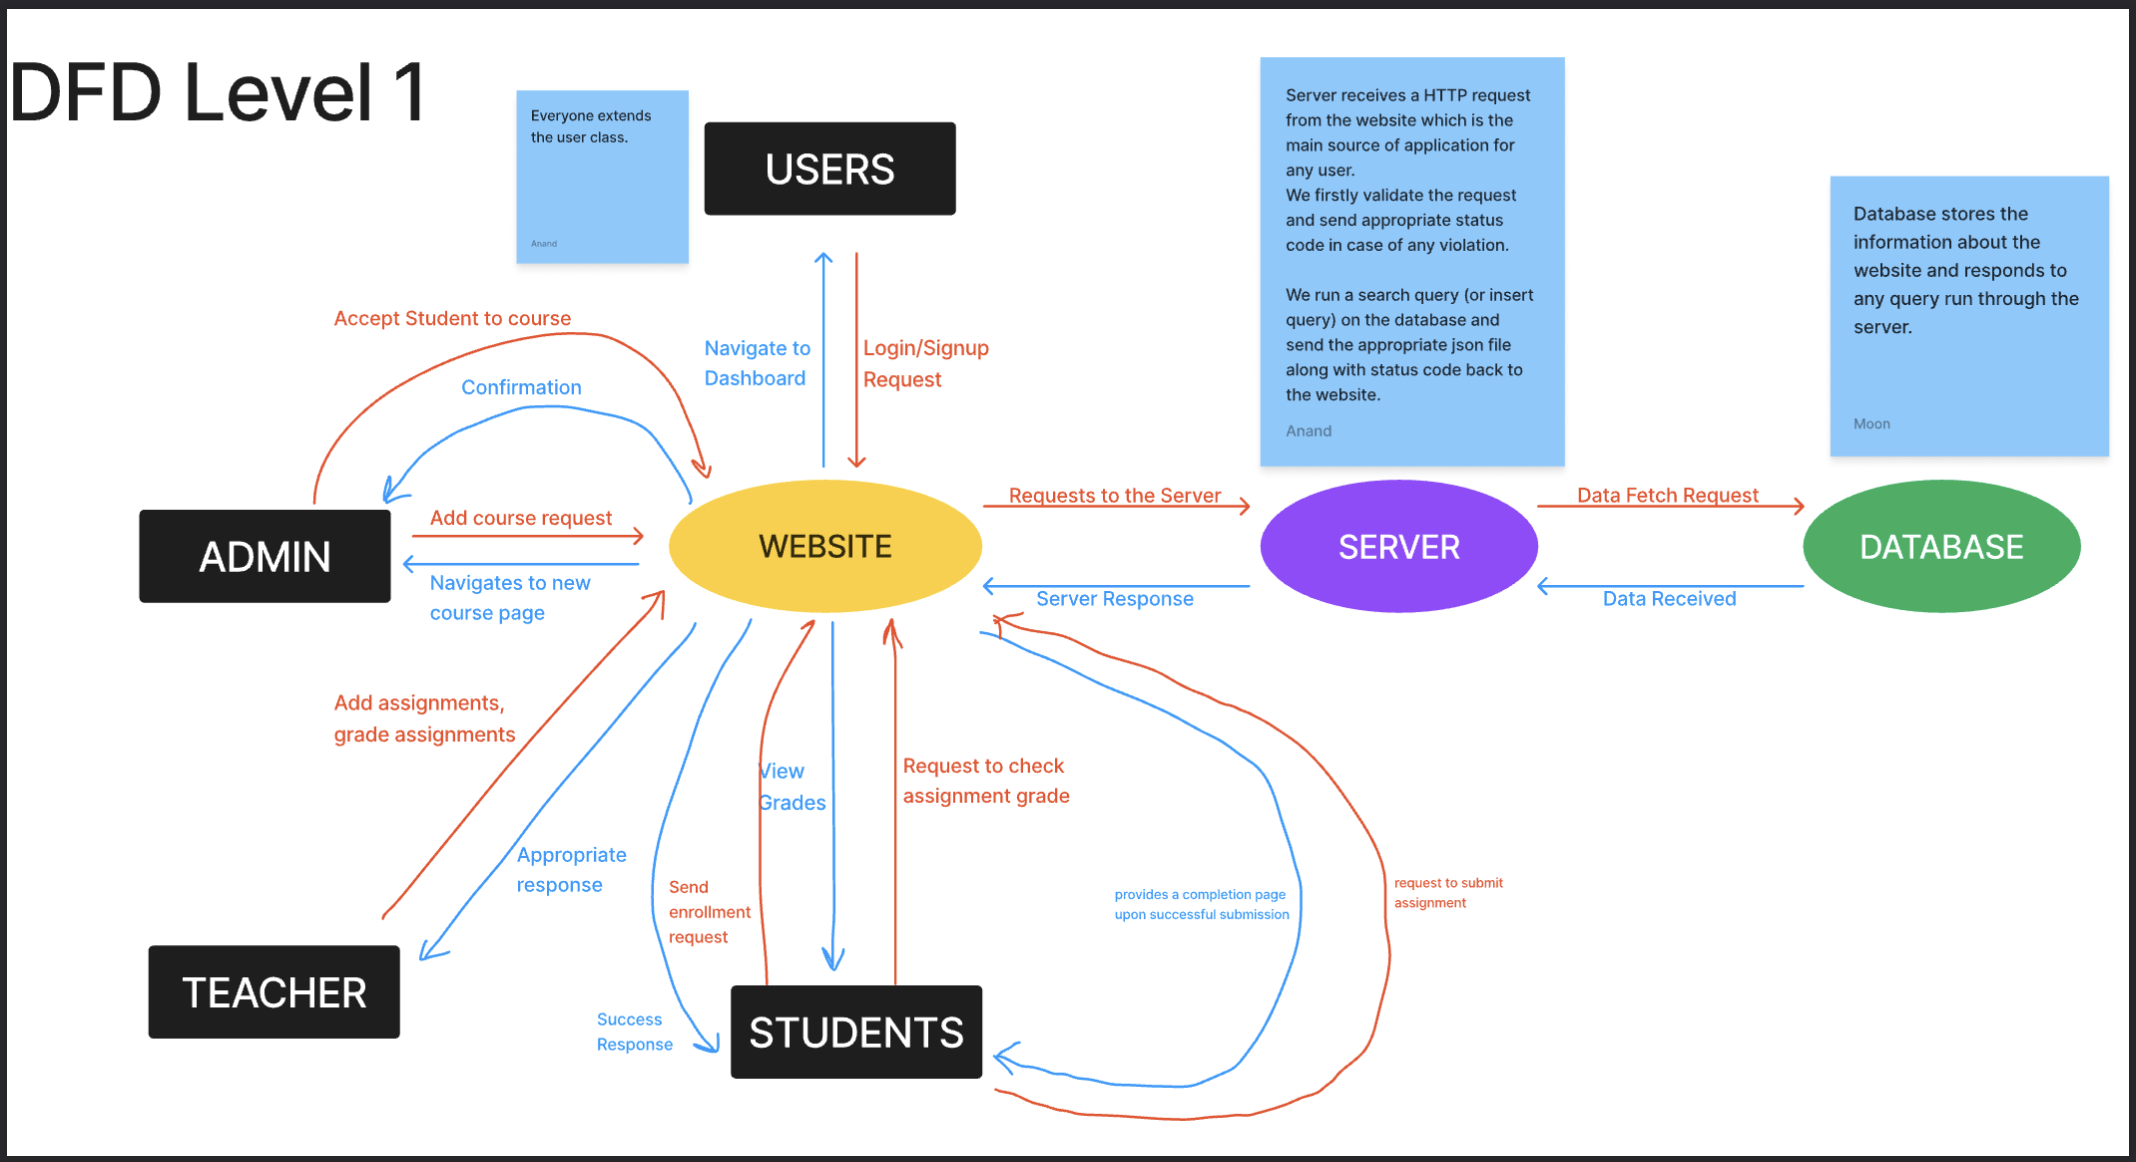
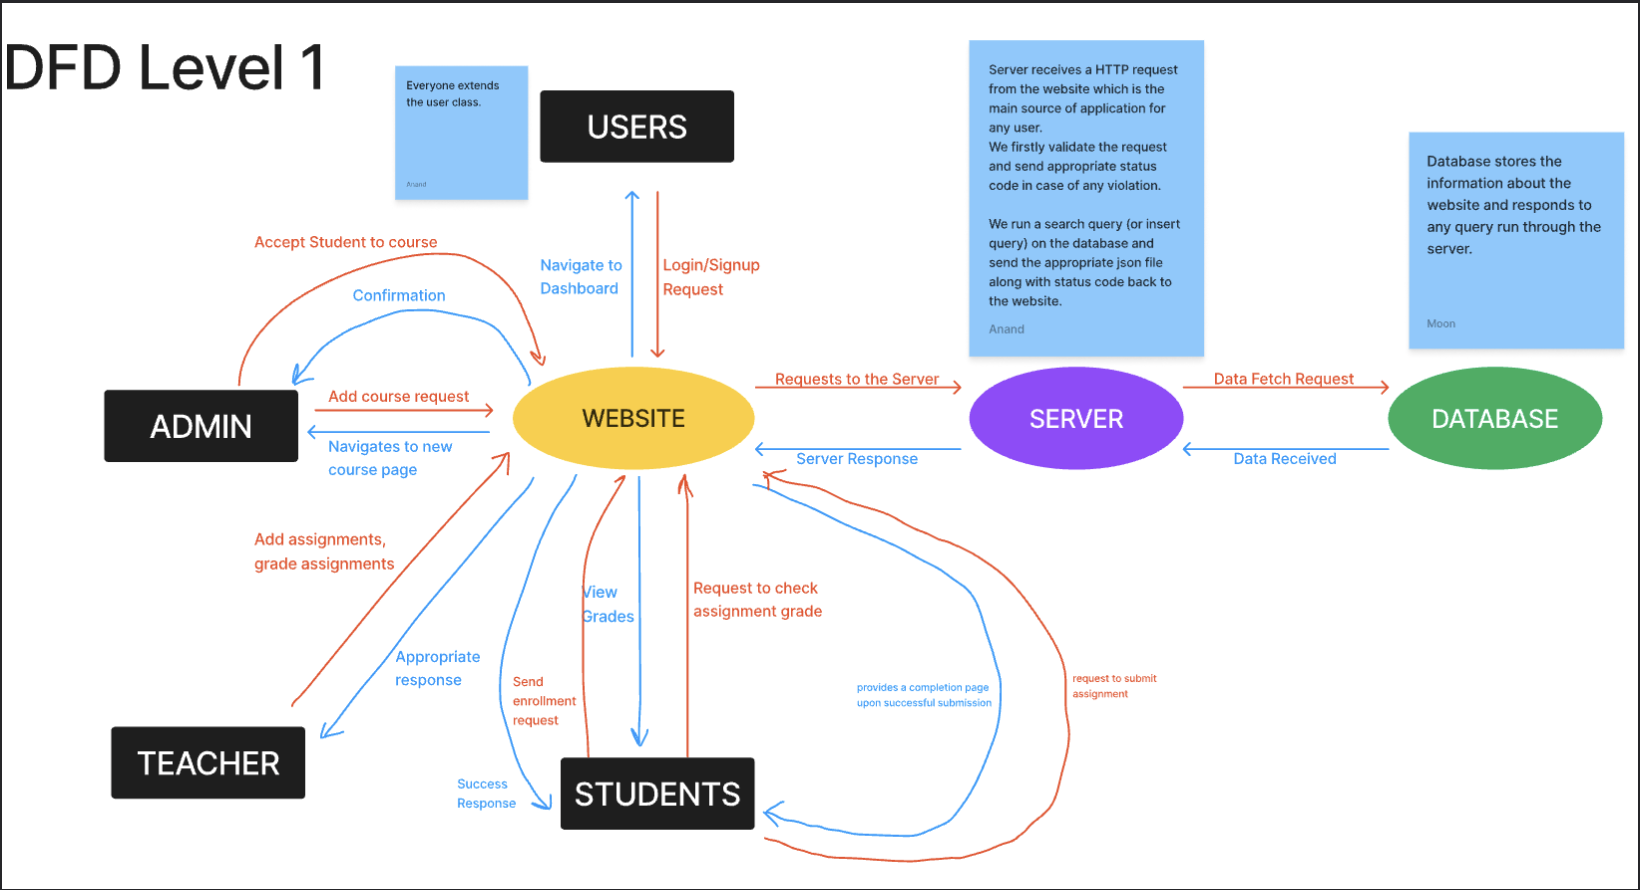
Added DFD1 to README (#16)

diff --git a/README.md b/README.md
@@ -4,8 +4,13 @@
 <img src="./images/use_case_model.png">
 </a>
 
+
  ## DFD Level 0
 <img src="./images/DFD_Img.png">
+
+## DFD Level 1
+
+<img src="./images/DFD1.png">
 
 ## Getting Started
 To run the frontend, first install the packages in `node_modules` directory by running
